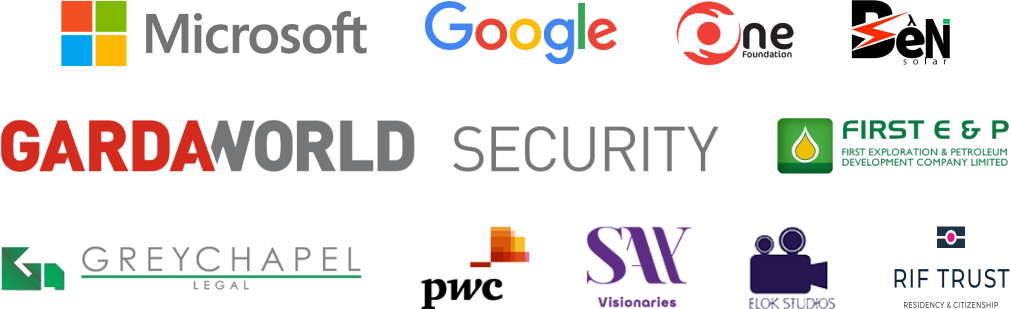
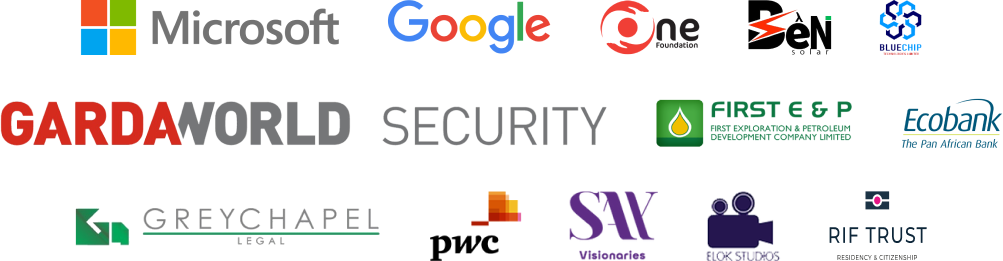
new partners

diff --git a/resources/views/homepage.blade.php b/resources/views/homepage.blade.php
@@ -453,6 +453,12 @@
                 <swiper-slide class="pl-8 self-center">
                     <img src="/images/new-pat-11.png" alt="" />
                 </swiper-slide>
+                <swiper-slide class="pl-8 self-center">
+                    <img src="/images/new-pat-12.png" alt="" />
+                </swiper-slide>
+                <swiper-slide class="pl-8 self-center">
+                    <img src="/images/new-pat-13.png" alt="" />
+                </swiper-slide>
             </swiper-container>
 
             <swiper-container slides-per-view="3" speed="500" loop="true" autoplay="true" css-mode="true"
@@ -500,6 +506,12 @@
                 <swiper-slide class="pl-8 self-center">
                     <img src="/images/new-pat-11.png" alt="" />
                 </swiper-slide>
+                <swiper-slide class="pl-8 self-center">
+                    <img src="/images/new-pat-12.png" alt="" />
+                </swiper-slide>
+                <swiper-slide class="pl-8 self-center">
+                    <img src="/images/new-pat-13.png" alt="" />
+                </swiper-slide>
             </swiper-container>
 
             <swiper-container slides-per-view="5" speed="500" loop="true" autoplay="true" css-mode="true"
@@ -546,6 +558,13 @@
 
                 <swiper-slide class="pl-8 self-center">
                     <img src="/images/new-pat-11.png" alt="" />
+                </swiper-slide>
+                <swiper-slide class="pl-8 self-center">
+                    <img src="/images/new-pat-12.png" alt="" />
+                </swiper-slide>
+
+                <swiper-slide class="pl-8 self-center">
+                    <img src="/images/new-pat-13.png" alt="" />
                 </swiper-slide>
             </swiper-container>
         </div>
